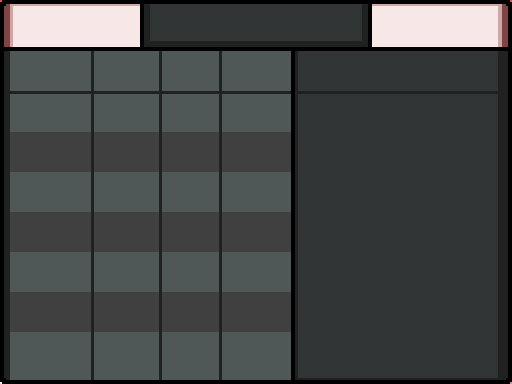
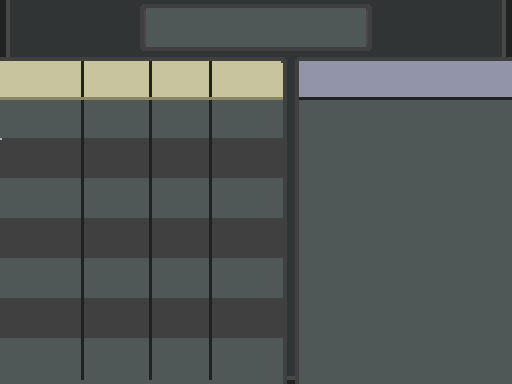
Update Battle Info Display for new design

diff --git a/Plugins/Tectonic Battle/Scene/SceneMenus/BattleInfoDisplay.rb b/Plugins/Tectonic Battle/Scene/SceneMenus/BattleInfoDisplay.rb
@@ -19,8 +19,12 @@ class BattleInfoDisplay < SpriteWrapper
         @selected	= 0
         @individual = nil
         @field	= false
-        @battleInfoMain	= AnimatedBitmap.new("Graphics/Pictures/Battle/battle_info_main")
-        @battleInfoIndividual	= AnimatedBitmap.new("Graphics/Pictures/Battle/battle_info_individual")
+        main_path = "Graphics/Pictures/Battle/battle_info_main"
+        main_path += "_dark" if $PokemonSystem.dark_mode == 0
+        @battleInfoMain	= AnimatedBitmap.new(main_path)
+        individual_path = "Graphics/Pictures/Battle/battle_info_individual"
+        individual_path += "_dark" if $PokemonSystem.dark_mode == 0
+        @battleInfoIndividual	= AnimatedBitmap.new(individual_path)
         @backgroundBitmap = @battleInfoMain
         @statusCursorBitmap	= AnimatedBitmap.new("Graphics/Pictures/Battle/cursor_status")
 
@@ -68,9 +72,9 @@ class BattleInfoDisplay < SpriteWrapper
     end
 
     def drawWholeBattleInfo
-        base        = MessageConfig::DARK_TEXT_MAIN_COLOR
-        shadow      = MessageConfig::DARK_TEXT_SHADOW_COLOR
-        lightBase   = MessageConfig::LIGHT_TEXT_MAIN_COLOR
+        base        = MessageConfig.pbDefaultTextMainColor
+        shadow      = MessageConfig.pbDefaultTextShadowColor
+        lightBase   = MessageConfig::LIGHT_TEXT_MAIN_COLOR # we want light text to stay light regardless of mode
         lightShadow = MessageConfig::LIGHT_TEXT_SHADOW_COLOR
 
         textToDraw = []
@@ -214,8 +218,8 @@ class BattleInfoDisplay < SpriteWrapper
     end
 
     def drawIndividualBattlerInfo(battler)
-        base = MessageConfig::DARK_TEXT_MAIN_COLOR
-        shadow = MessageConfig::DARK_TEXT_SHADOW_COLOR
+        base = MessageConfig.pbDefaultTextMainColor
+        shadow = MessageConfig.pbDefaultTextShadowColor
 		lightBase = MessageConfig::LIGHT_TEXT_MAIN_COLOR
     	lightShadow = MessageConfig::LIGHT_TEXT_SHADOW_COLOR
         textToDraw = []
